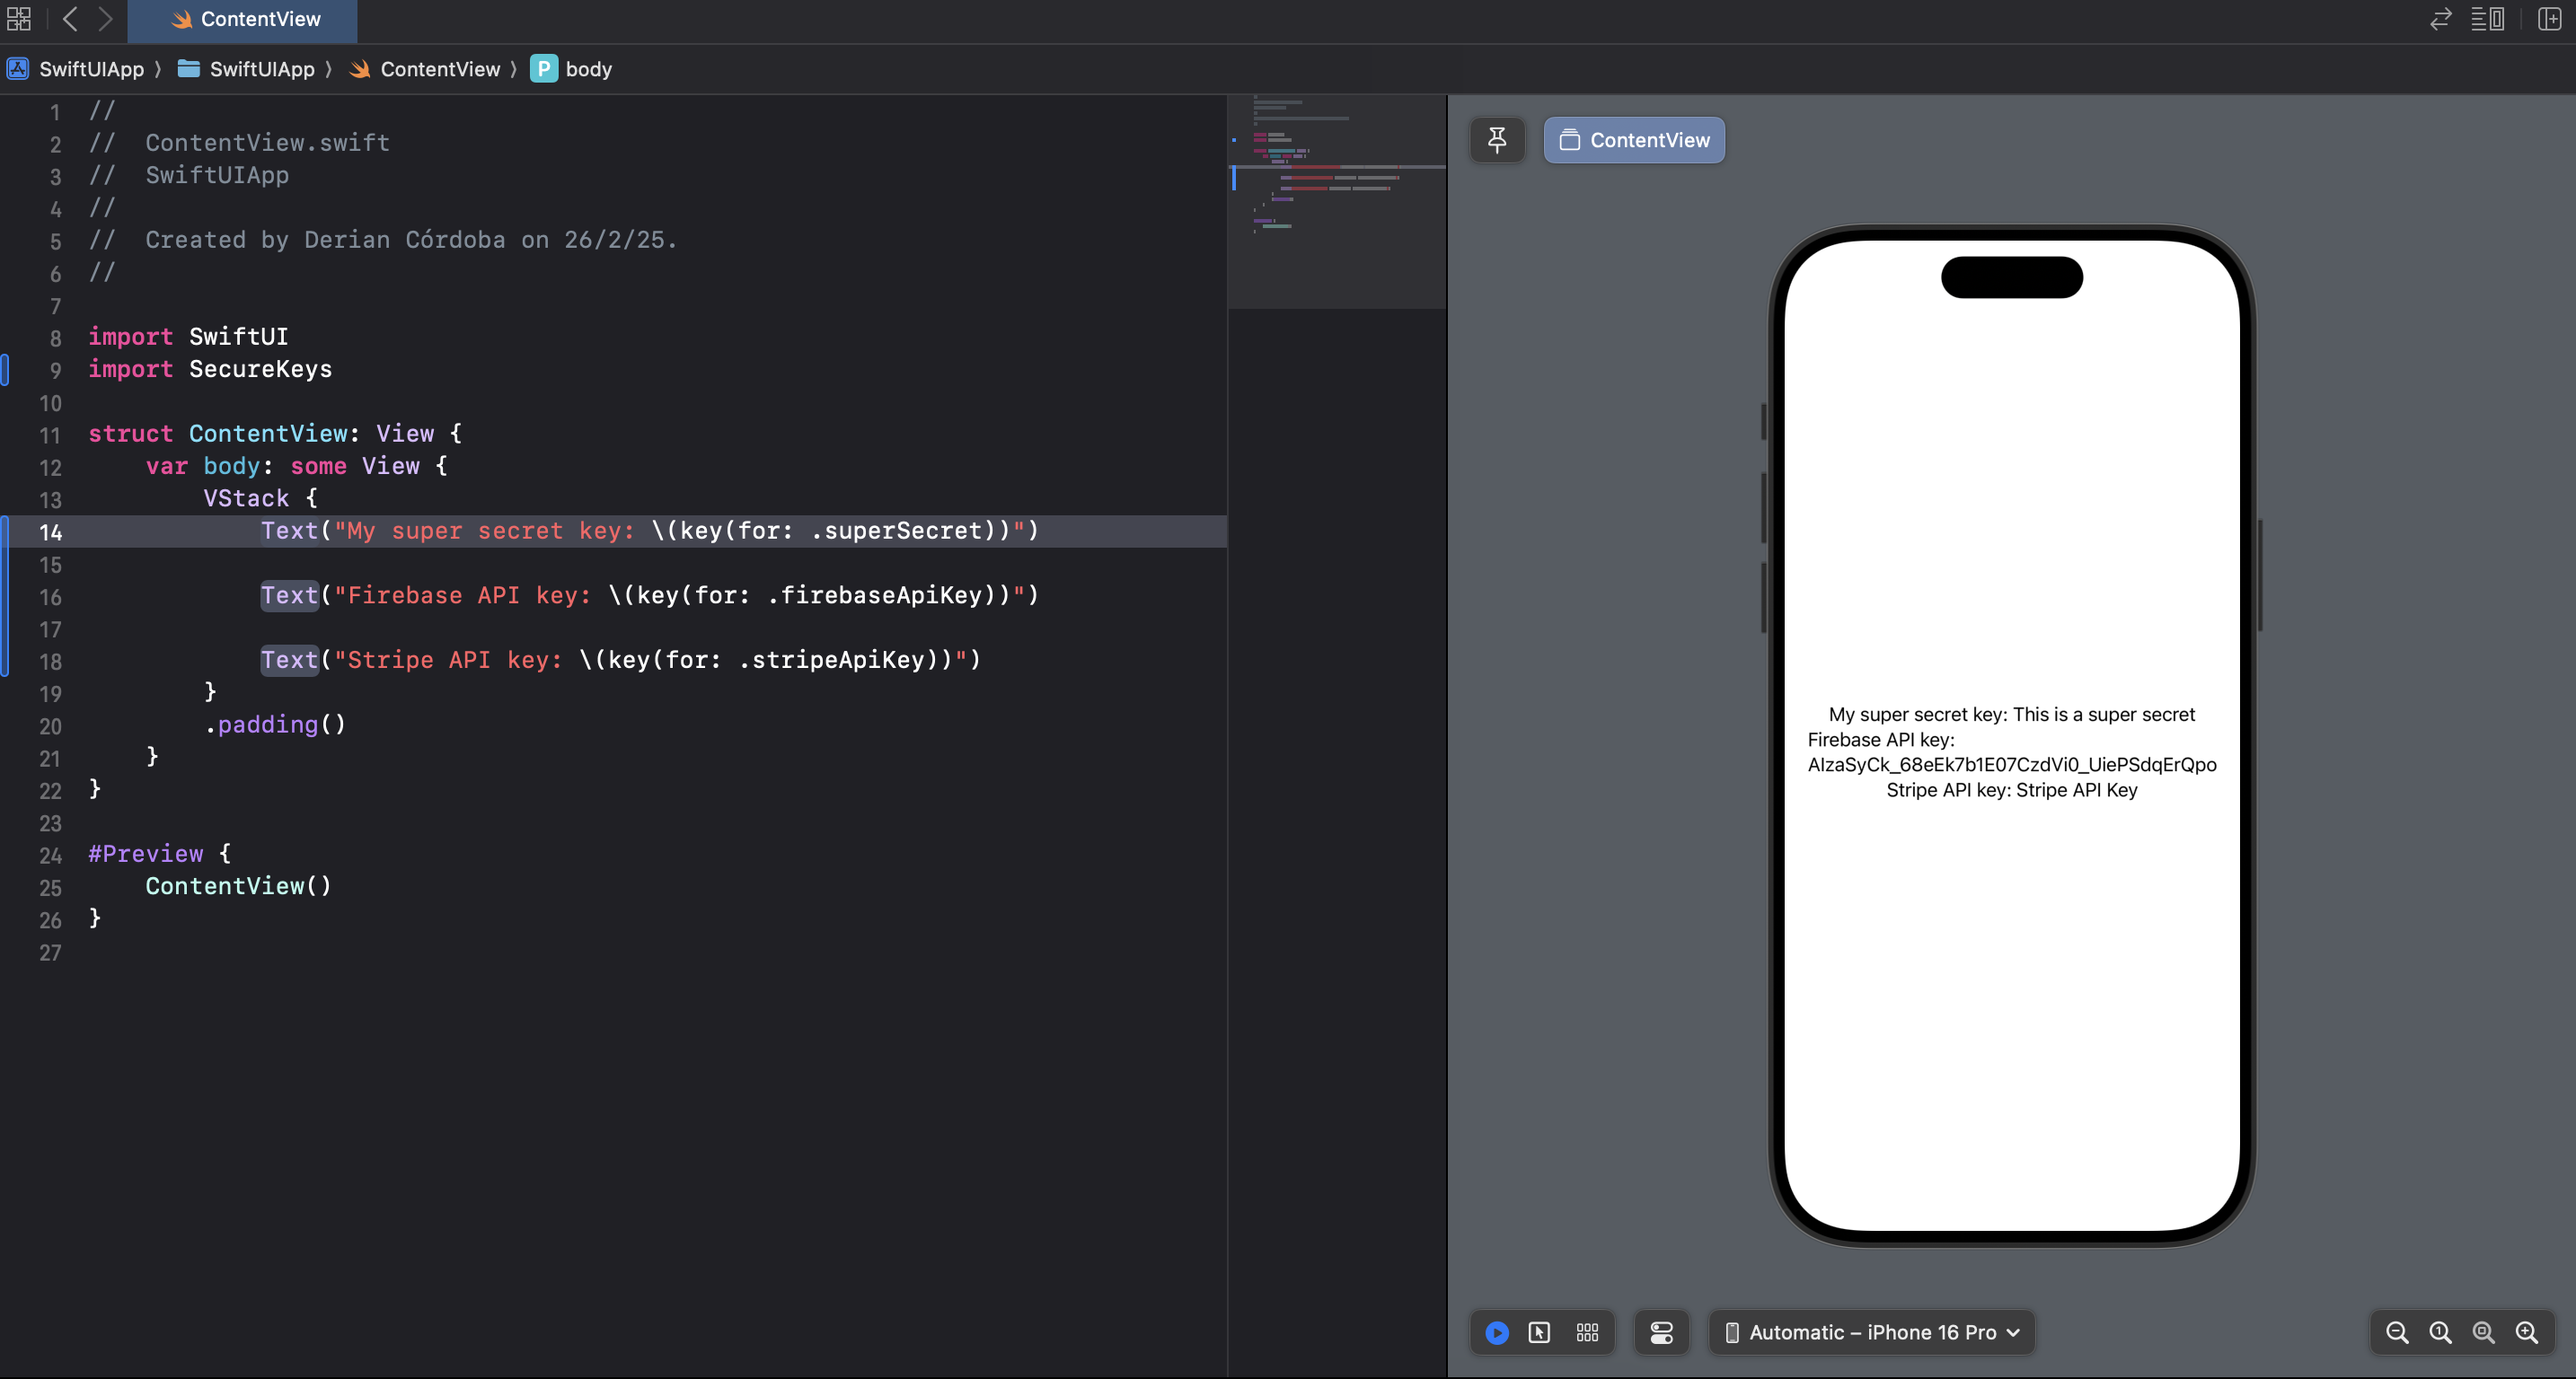
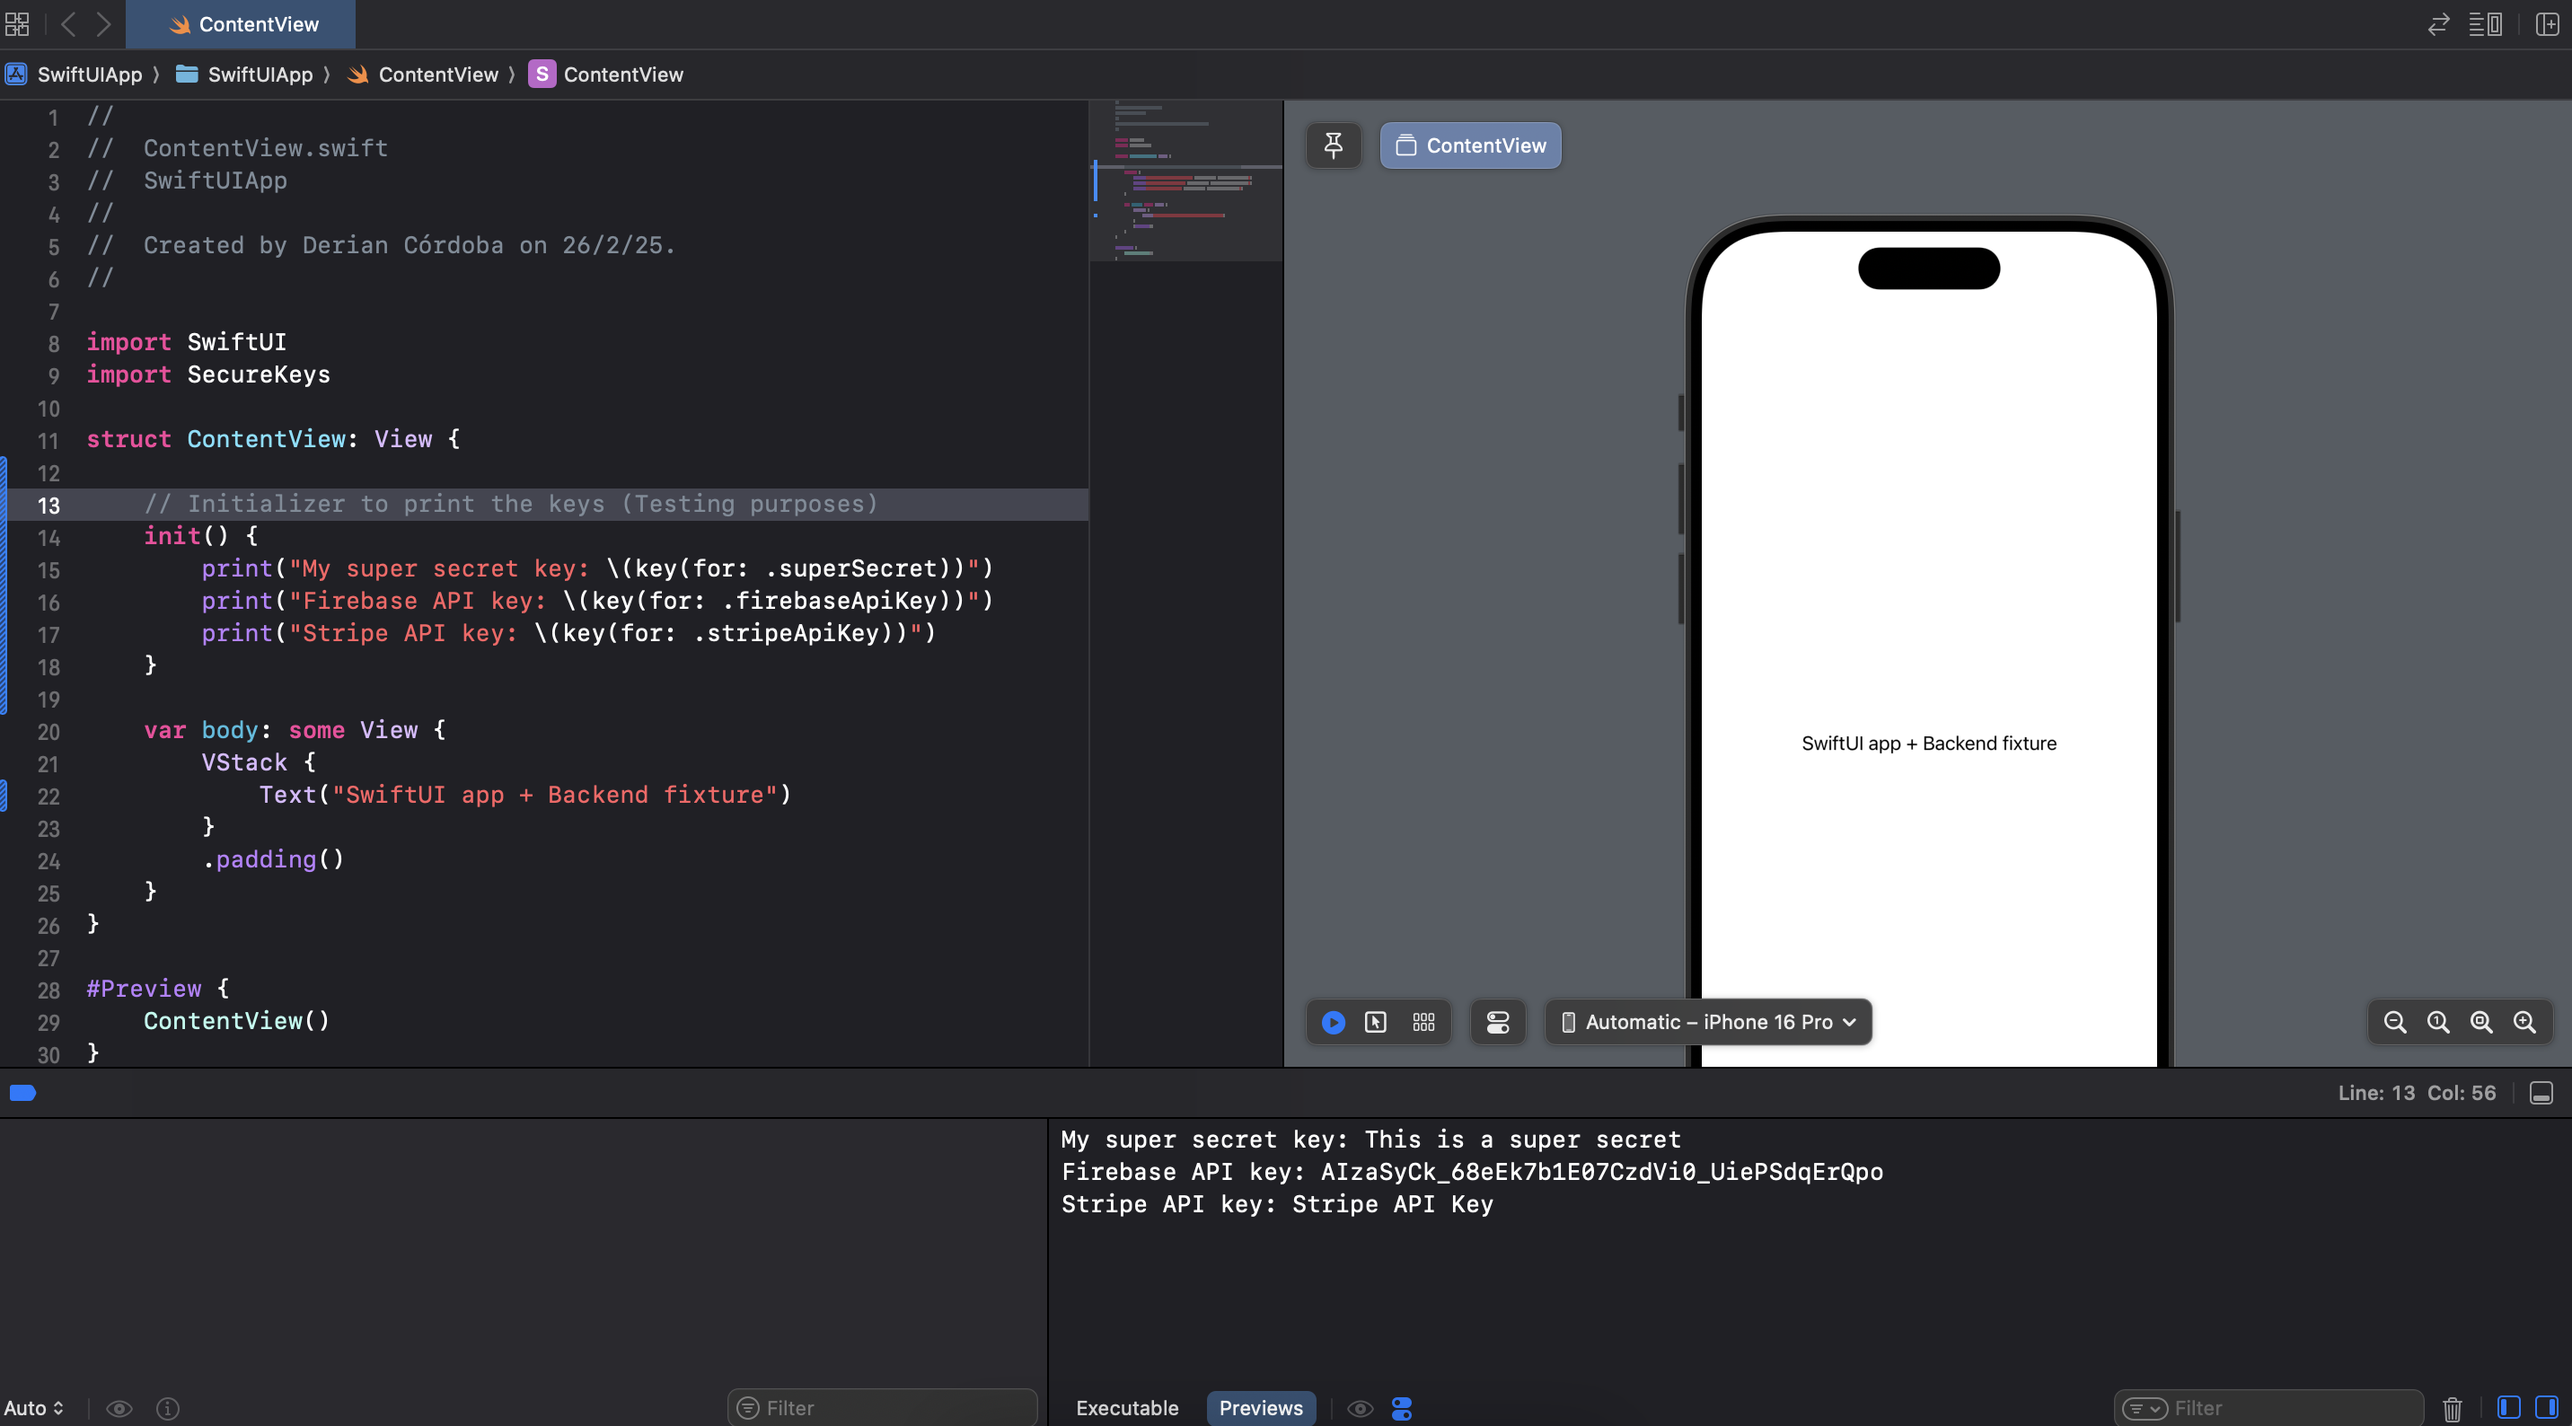
chore(fixture): removed secure keys from UI

diff --git a/fixtures/SwiftUIApp+Backend/client/SwiftUIApp/ContentView.swift b/fixtures/SwiftUIApp+Backend/client/SwiftUIApp/ContentView.swift
@@ -9,13 +9,17 @@ import SwiftUI
 import SecureKeys
 
 struct ContentView: View {
+    
+    // Initializer to print the keys (Testing purposes)
+    init() {
+        print("My super secret key: \(key(for: .superSecret))")
+        print("Firebase API key: \(key(for: .firebaseApiKey))")
+        print("Stripe API key: \(key(for: .stripeApiKey))")
+    }
+    
     var body: some View {
         VStack {
-            Text("My super secret key: \(key(for: .superSecret))")
-            
-            Text("Firebase API key: \(key(for: .firebaseApiKey))")
-            
-            Text("Stripe API key: \(key(for: .stripeApiKey))")
+            Text("SwiftUI app + Backend fixture")
         }
         .padding()
     }

diff --git a/fixtures/SwiftUIApp+Backend/README.md b/fixtures/SwiftUIApp+Backend/README.md
@@ -1,5 +1,8 @@
 # SwiftUIApp + Backend project
 
+> [!WARNING]
+> For this fixture, the secrets are printed in the console for demonstration purposes. In a real-world scenario, you should never print secrets in the console, logs, or any other output.
+
 This fixture contains a SwiftUI app that consumes the `SecureKeys` xcframework to securely store and retrieve secrets.
 
 Also included is a backend project that provides an API for user authentication and retrieving super secrets, simulating a real-world scenario where the entire team works with a Secret Manager like `1Password`, `LastPass`, or `AWS Secrets Manager`.
